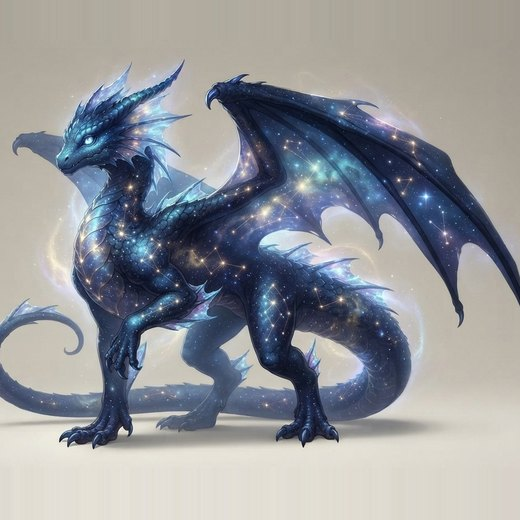
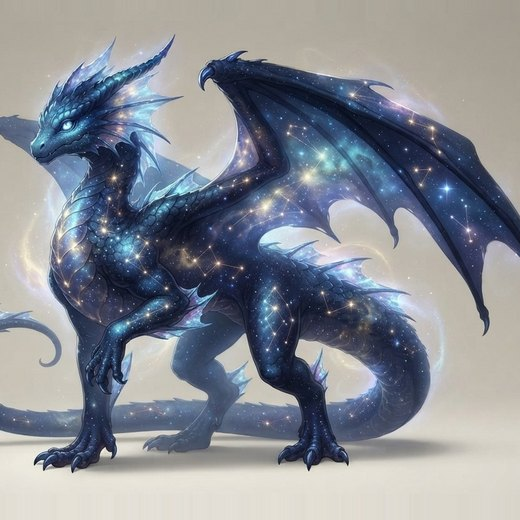
Popravi rdeč pas čez junaka in proge pri zmaju
Dve stvari s posnetka.

1. Gumba za nivo sta bila velika barvna pasova
   Ob prehodu miške je rdeč preliv prekril tretjino junaka. Zdaj sta
   to drobna kroga (22 px) v spodnjih kotih, ki se obarvata šele,
   ko je miška na njiju.

2. Zmaj je imel spodaj proge
   Podaljšanje roba, ki sem ga vpeljal za Vixen, je pri zmaju na
   1. stopnji raztegnilo korale v navpične pasove. Prejšnja omejitev
   na desetino izreza ni zadoščala, ker je bil problem v naravi robu,
   ne v njegovi dolžini.

   Orodje zdaj izmeri pestrost vsakega roba posebej (odklon svetlosti
   vzdolž njega) in podaljša samo tam, kjer je ozadje enakomerno.
   Izmerjeno: zmaj ima levi, desni in spodnji rob pester (odklon 32-42),
   zgornjega enakomernega (1,0); Vixen ima vse štiri enakomerne (0,3-6,2).
   Zato Vixen ostane pravilno uokvirjena, zmaj pa brez prog.

Ob tem odpravljena napaka v orodju: spremenljivka zanke "stran" je
povozila parameter "stran=520" in resize je dobil niz namesto števila.

Preverjeno tudi prelivanje mreže pri 17, 21 in 27 učencih — nikjer ne
uide čez rob, niti vodoravno niti navpično.

diff --git a/css/zaslon.css b/css/zaslon.css
@@ -610,18 +610,21 @@ details.vec .znotraj { padding:5px 0 4px; display:flex; flex-direction:column; g
   box-shadow:0 1px 4px rgba(0,0,0,.3); opacity:.9;
 }
 
-/* Spodnja kota kartice sta gumba za nivo gor in dol. */
+/* Gumba za nivo sta drobna kroga v spodnjih kotih. Prej sta bila velika
+   barvna pasova, ki sta ob prehodu miške prekrila tretjino junaka. */
 .q-manj, .q-vec {
-  position:absolute; bottom:0; width:34%; height:26%; z-index:2;
-  border:none; background:transparent; cursor:pointer; padding:0;
-  font-family:inherit; font-size:15px; font-weight:800; line-height:1;
-  color:#fff; opacity:0; transition:opacity .15s, background .15s;
-  display:flex; align-items:flex-end; justify-content:center;
-  padding-bottom:3px; text-shadow:0 1px 3px rgba(0,0,0,.6);
+  position:absolute; bottom:5px; z-index:2;
+  width:22px; height:22px; border-radius:50%; border:none; padding:0;
+  cursor:pointer; font-family:inherit; font-size:13px; font-weight:800;
+  line-height:22px; text-align:center; color:#fff;
+  background:rgba(20,30,60,.45); backdrop-filter:blur(2px);
+  opacity:0; transition:opacity .15s, background .15s;
 }
-.q-manj { left:0;  background:linear-gradient(to top, rgba(210,45,32,.55), transparent); }
-.q-vec  { right:0; background:linear-gradient(to top, rgba(34,102,255,.55), transparent); }
+.q-manj { left:5px; }
+.q-vec  { right:5px; }
 .q-kartica:hover .q-manj, .q-kartica:hover .q-vec { opacity:1; }
+.q-manj:hover { background:var(--brand-red); }
+.q-vec:hover  { background:var(--brand-blue); }
 .q-manj:disabled, .q-vec:disabled { opacity:0 !important; cursor:default; }
 
 /* Zamenjava junaka je redka — pokaže se le ob prehodu miške. */

diff --git a/sw.js b/sw.js
@@ -1,4 +1,4 @@
-const CACHE = 'zaslon-v39';
+const CACHE = 'zaslon-v40';
 
 /** Lupina aplikacije. */
 const ASSETS = [

diff --git a/orodja/kader.py b/orodja/kader.py
@@ -1,6 +1,7 @@
 """Enoten kvadratni kader okoli lika. Ozadje ostane nedotaknjeno —
 maska služi SAMO za to, da najdemo, kje v sliki lik je."""
 from PIL import Image
+import statistics
 
 def _maska(im, nasic=0.22, temno=0.45):
     """Studijsko ozadje je bledo in nenasičeno; lik je barvit ali temen.
@@ -49,6 +50,17 @@ def okvir_lika(im, delez=0.06):
     s = im.size[0]/w
     return int(x0*s), int(y0*s), int(x1*s), int(y1*s)
 
+def _pestrost_roba(im, stran, korak=4):
+    """Odklon svetlosti vzdolž robu. Enakomerno ozadje ima nizkega,
+    prizor (npr. korale) visokega."""
+    W, H = im.size
+    if stran == 'levo':   pas = [im.getpixel((0, y))     for y in range(0, H, korak)]
+    elif stran == 'desno':  pas = [im.getpixel((W-1, y)) for y in range(0, H, korak)]
+    elif stran == 'zgoraj': pas = [im.getpixel((x, 0))   for x in range(0, W, korak)]
+    else:                   pas = [im.getpixel((x, H-1)) for x in range(0, W, korak)]
+    return statistics.pstdev([sum(p) / 3 for p in pas])
+
+
 def _razsiri(im, levo, desno, zgoraj, spodaj):
     """Podaljša robne pike navzven. Studijsko ozadje ima vinjeto, zato
     enobarvna zapolnitev pusti šiv — raztegnjen rob se zlije z njim."""
@@ -77,12 +89,19 @@ def kvadrat(pot, stran=520, zrak=1.18):
     cx, cy = (x0 + x1) / 2, (y0 + y1) / 2
     r = max(x1 - x0, y1 - y0) * zrak / 2
 
-    # Podaljšan rob je neopazen na enobarvnem ozadju, na prizoru (npr. korale
-    # pri zmaju) pa se pozna kot proge. Zato ga omejimo na desetino izreza;
-    # če bi ga bilo treba več, raje vzamemo malo manj zraka okoli lika.
-    NAJVEC_ROB = 0.10
-    meja = min(cx, cy, W - cx, H - cy) / (1 - 2 * NAJVEC_ROB)
-    r = min(r, meja)
+    # Podaljšan rob je neopazen na enakomernem ozadju, na prizoru (korale pri
+    # zmaju) pa naredi proge. Zato ga dovolimo le tam, kjer je rob enakomeren,
+    # in še tam največ desetino izreza.
+    MEJA_PESTROSTI, NAJVEC_ROB = 12.0, 0.10
+    dovoljeno = {
+        'levo':   cx,        'desno':  W - cx,
+        'zgoraj': cy,        'spodaj': H - cy,
+    }
+    for rob, razdalja in dovoljeno.items():          # ne "stran" — to je parameter
+        if _pestrost_roba(im, rob) <= MEJA_PESTROSTI:
+            r = min(r, razdalja / (1 - NAJVEC_ROB))   # rob smemo podaljšati
+        else:
+            r = min(r, razdalja)                       # rob mora ostati v sliki
 
     levo   = max(0, round(r - cx))
     zgoraj = max(0, round(r - cy))
